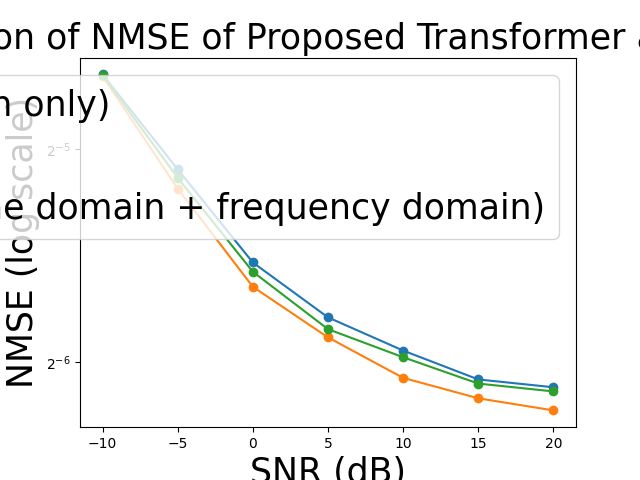
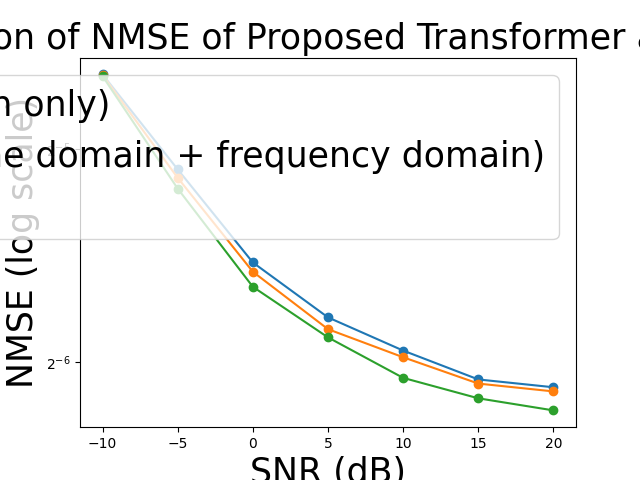
FEDformer: in main

diff --git a/SPR-CNN/result-modality-transformer.py b/SPR-CNN/result-modality-transformer.py
@@ -25,6 +25,9 @@ y4 = [0.5412381862428629, 0.33254079647163465, 0.2115293457419186, 0.15641427783
 # SPARSEMATTDAE
 y5 = [0.5238966308505519, 0.32426746977979914, 0.20119746725457452, 0.13996944454347623, 0.11280704789072017, 0.09475028820637019, 0.08761300950468075]
 
+# FEDformer
+y6 = [0.04003031924366951, 0.032262492924928665, 0.023152129724621773, 0.017859801650047302, 0.015596599318087101, 0.014731141738593578, 0.014243846759200096]
+
 # set y-axis to log scale
 plt.yscale('log', base=2)
 
@@ -32,8 +35,10 @@ plt.yscale('log', base=2)
 plt.plot(x, y1, marker='o', label='CNN')
 plt.plot(x, y2, marker='o', label='Transformers')
 plt.plot(x, y3, marker='o', label='Proposed Transformer')
-plt.plot(x, y4, marker='o', label='DAECNNATT')
-plt.plot(x, y5, marker='o', label='SPARSEMATTDAE')
+plt.plot(x, y4, marker='o', label='Attention-aided Autoencoder')
+plt.plot(x, y5, marker='o', label='Sparse Autoencoder')
+plt.plot(x, y6, marker='o', label='FEDformer')
+
 
 # add title and axis labels
 plt.title('Comparison of NMSE of CNN and Transformers and Proposed Transformer', fontsize=fontsize)
@@ -41,7 +46,7 @@ plt.xlabel('SNR (dB)', fontsize=fontsize)
 plt.ylabel('NMSE (log scale)', fontsize=fontsize)
 
 # add legend
-plt.legend(fontsize=fontsize)
+plt.legend(fontsize=20)
 
 # save the plot
 plt.savefig('Comparison of NMSE of CNN and Transformers and Proposed Transformer')
@@ -72,6 +77,9 @@ y4 = [12.97931951377382, 14.154661877931208, 14.794740768464427, 15.077112879082
 # SPARSEMATTDAE
 y5 = [13.080715119036215, 14.199338913358442, 14.848096915580719, 15.160305529554883, 15.296675207596744, 15.386621664883695, 15.422020653796265]
 
+# FEDformer
+y6 = [15.489140933602904, 15.55980019276288, 15.642233280343834, 15.689904380496367, 15.710242356836591, 15.718012085872813, 15.722385011103668]
+
 # set y-axis to log scale
 plt.yscale('log', base=10)
 
@@ -79,13 +87,21 @@ plt.yscale('log', base=10)
 plt.plot(x, y1, marker='o', label='CNN')
 plt.plot(x, y2, marker='o', label='Transformers')
 plt.plot(x, y3, marker='o', label='Proposed Transformer')
-plt.plot(x, y4, marker='o', label='DAECNNATT')
-plt.plot(x, y5, marker='o', label='SPARSEMATTDAE')
+plt.plot(x, y4, marker='o', label='Attention-aided Autoencoder')
+plt.plot(x, y5, marker='o', label='Sparse Autoencoder')
+plt.plot(x, y6, marker='o', label='FEDformer')
+
+y1 = [value / 10 for value in y1]
+y2 = [value / 10 for value in y2]
+y3 = [value / 10 for value in y3]
+y4 = [value / 10 for value in y4]
+y5 = [value / 10 for value in y5]
+y6 = [value / 10 for value in y6]
 
 # add title and axis labels
 plt.title('Comparison of sum rate of CNN and Transformers and Proposed Transformer', fontsize=fontsize)
 plt.xlabel('SNR (dB)', fontsize=fontsize)
-plt.ylabel('sum rate(bandwith = 10) (log scale)', fontsize=fontsize)
+plt.ylabel('sum rate(bandwith = 1) (log scale)', fontsize=fontsize)
 
 # add legend
 plt.legend(fontsize=fontsize)
@@ -119,8 +135,8 @@ y3 = [0.039773717522621155, 0.028461197391152382, 0.020952610298991203, 0.017375
 
 # draw
 plt.plot(x, y1, marker='o', label='Transformers(time domain only)')
-plt.plot(x, y2, marker='o', label='Proposed Transformer')
 plt.plot(x, y3, marker='o', label='Proposed Transformer(time domain + frequency domain)')
+plt.plot(x, y2, marker='o', label='Proposed Transformer')
 
 # set y-axis to log scale
 plt.yscale('log', base=2)
@@ -160,11 +176,14 @@ y2 = [15.49264954985823, 15.603153955212745, 15.671097689190924, 15.698389138207
 # modality-aware transformers
 y3 = [15.49148045194048, 15.594252673970859, 15.662064721667459, 15.694258319307453, 15.707909134999468, 15.719619257954932, 15.722911156969142]
 
+y1 = [value / 10 for value in y1]
+y2 = [value / 10 for value in y2]
+y3 = [value / 10 for value in y3]
+
 # draw
 plt.plot(x, y1, marker='o', label='Transformers(time domain only)')
-plt.plot(x, y2, marker='o', label='Proposed Transformer')
 plt.plot(x, y3, marker='o', label='Proposed Transformer(time domain + frequency domain)')
-
+plt.plot(x, y2, marker='o', label='Proposed Transformer')
 
 # set y-axis to log scale
 plt.yscale('log', base=2)
@@ -172,7 +191,7 @@ plt.yscale('log', base=2)
 # add title and axis labels
 plt.title('Comparison of sum rate of Proposed Transformer and Others', fontsize=fontsize)
 plt.xlabel('SNR (dB)', fontsize=fontsize)
-plt.ylabel('sum rate(bandwith = 10) (log scale)', fontsize=fontsize)
+plt.ylabel('sum rate(bandwith = 1) (log scale)', fontsize=fontsize)
 
 # add legend
 plt.legend(fontsize=fontsize)
@@ -284,6 +303,11 @@ y3 = [15.493780284204943, 15.593419636118835, 15.664949597637182, 15.69825676909
 # modality-aware transformers
 y4 = [15.491681067760004, 15.589832575098683, 15.663973687062441, 15.706498242577116, 15.716936093266758, 15.728069976733451, 15.728512427221728]
 
+y1 = [value / 10 for value in y1]
+y2 = [value / 10 for value in y2]
+y3 = [value / 10 for value in y3]
+y4 = [value / 10 for value in y4]
+
 # draw
 plt.plot(x, y1, marker='o', label='Full Self Attention')
 plt.plot(x, y2, marker='o', label='Atrous Self Attention')
@@ -296,7 +320,7 @@ plt.yscale('log')
 # add title and axis labels
 plt.title('Comparison of sum rate of Proposed Transformer of different Sparse Attention', fontsize=fontsize)
 plt.xlabel('SNR (dB)', fontsize=fontsize)
-plt.ylabel('sum rate(bandwith = 10) (log scale)', fontsize=fontsize)
+plt.ylabel('sum rate(bandwith = 1) (log scale)', fontsize=fontsize)
 
 # add legend
 plt.legend(fontsize=fontsize)

diff --git a/SPR-CNN/main.py b/SPR-CNN/main.py
@@ -330,14 +330,20 @@ H_test = Add()([H_test, position_encoding2])
 
 enc_output = None
 
-
+# FFT
+FFT_layer = FFT()
+# IFFT
+IFFT_layer = IFFT()
 for _ in range(encoder_block_num):  # Repeat the encoder encoder_block_num times
     
     # Transformer Encoder Layer
-    
+    # FFT
+    x = FFT_layer(x)
     # Multi_Head_Attention
     Multi_Head_Attentionn = Multi_Head_Attention(d_k=key_dim_num, d_v=key_dim_num, d_model=key_dim_num, num_heads = num_heads)
     attn_output = Multi_Head_Attentionn(x)
+    # IFFT
+    attn_output = IFFT_layer(attn_output)
     
     # Add & Norm
     x = Add()([x, attn_output])
@@ -357,8 +363,12 @@ for _ in range(encoder_block_num):  # Repeat the encoder encoder_block_num times
     mask = tf.sequence_mask([8192/key_dim_num], maxlen=8192/key_dim_num, dtype=tf.float32)
 
     # Masked Multi-Head Attention (self-attention on decoder inputs)
+    # FFT
+    x = FFT_layer(x)
     masked_self_attention_layer = Multi_Head_Attention(d_k=key_dim_num, d_v=key_dim_num, d_model=key_dim_num, num_heads = num_heads)
     attn_output = masked_self_attention_layer(x, mask = mask)
+    # IFFT
+    attn_output = IFFT_layer(attn_output)
 
     # Add & Norm
     x = Add()([x, attn_output])
@@ -366,8 +376,13 @@ for _ in range(encoder_block_num):  # Repeat the encoder encoder_block_num times
 
     # Multi-Head Attention(attention to encoder outputs)
     enc_output = enc_output  # Assuming encoder output is available
+    # FFT
+    x = FFT_layer(x)
+    enc_output = FFT_layer(enc_output)
     cross_attention_layer = Multi_Head_Attention(d_k=key_dim_num, d_v=key_dim_num, d_model=key_dim_num, num_heads = num_heads)
     attn_output = cross_attention_layer(x, enc_output = enc_output)
+    # IFFT
+    attn_output = IFFT_layer(attn_output)
     
     # Add & Norm
     x = Add()([x, attn_output])
@@ -378,7 +393,6 @@ for _ in range(encoder_block_num):  # Repeat the encoder encoder_block_num times
     # ff_output = Conv1D(filters=key_dim_num, kernel_size=3, padding='same', activation='relu')(x)
     x = Add()([x, ff_output])
     x = LayerNormalization(epsilon=1e-6)(x)
-
 
 # Output layer
 outputs = Conv1D(filters=key_dim_num, kernel_size=K, padding='Same', activation='tanh')(x)

diff --git a/SPR-CNN/loop.py b/SPR-CNN/loop.py
@@ -14,15 +14,15 @@ with open('output.txt', 'a') as f:
     # 恢复原始的标准输出
     sys.stdout = original_stdout
 # 要执行的命令的基础部分
-base_command = "python3 modality-aware.py"
+base_command = "python3 main.py"
 
 # 要执行的 SNR_dB 参数的范围
-SNR_dB_range = range(-10, 21, 5)
+SNR_dB_range = range(-10, 1001, 5)
 
 # 遍历 SNR_dB 参数的范围
 for SNR_dB in SNR_dB_range:
     # 构建完整的命令字符串
-    command = f"{base_command} {SNR_dB}"
+    command = f"{base_command} -5"
     
     # 执行命令
     result = subprocess.run(command, shell=True)
